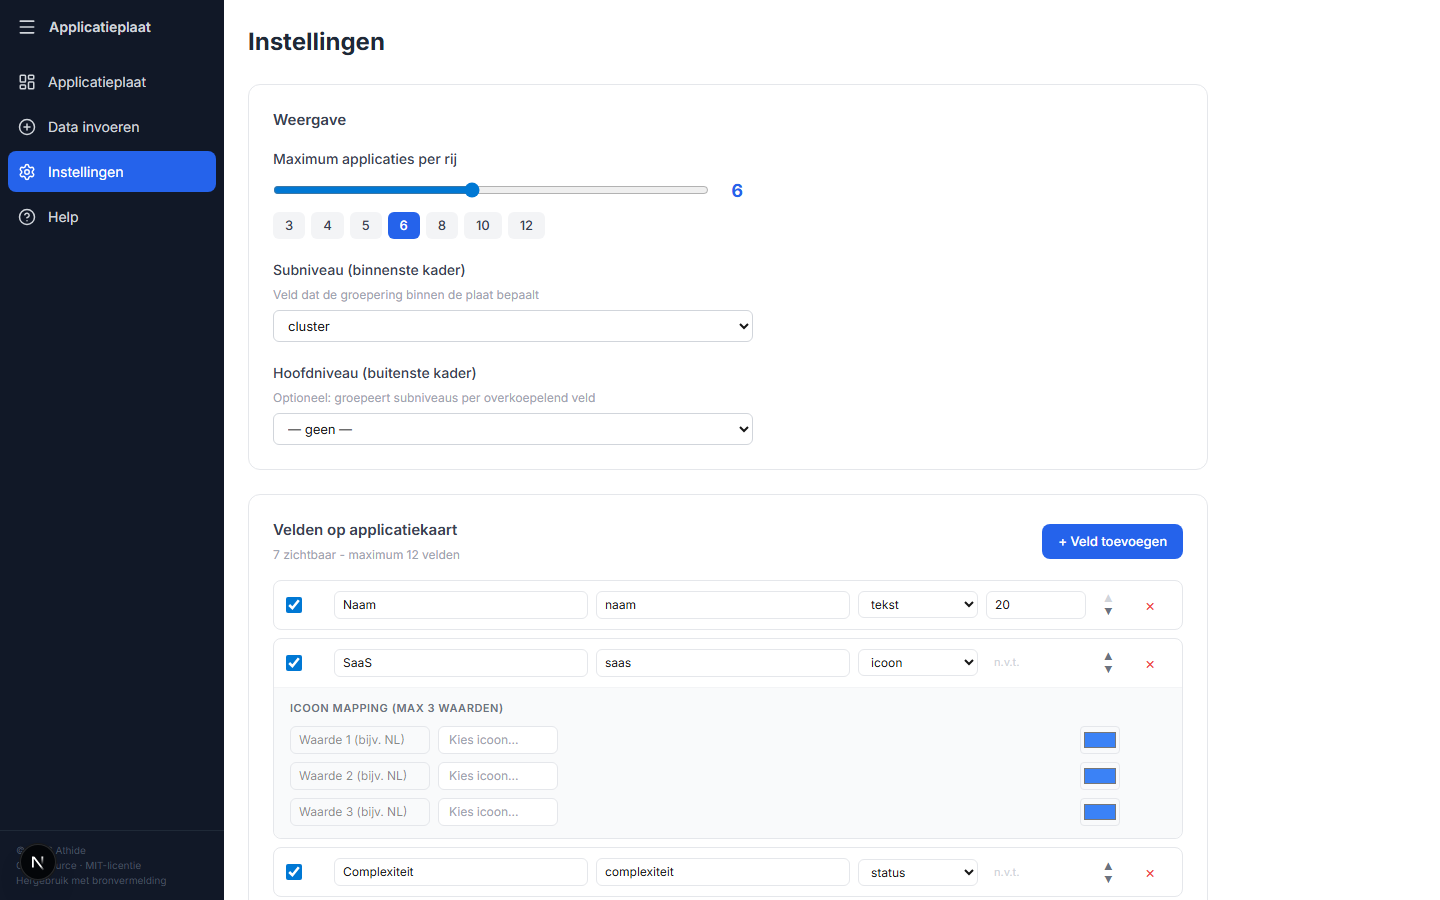
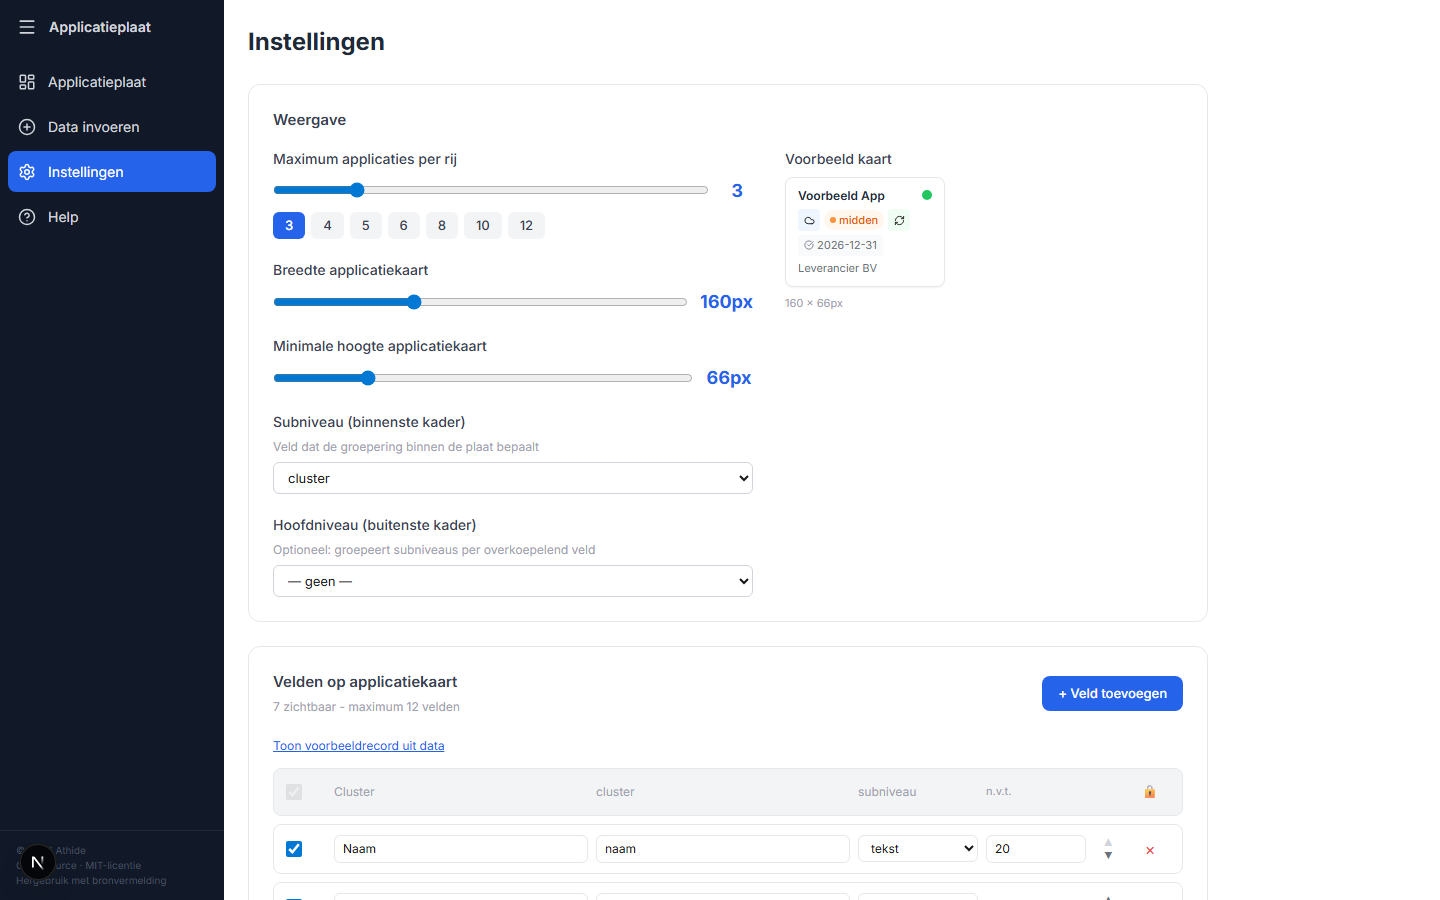
Help pagina bijgewerkt met toolbar documentatie en nieuwe screenshots
- Applicatieplaat sectie: toolbar uitleg (Niveau, Velden, Filter, Opslaan)
- Filter sectie: aangepast aan nieuw filterpaneel zonder niveau-selectors
- Instellingen sectie: kaartbreedte/hoogte toegevoegd, verwijzing naar toolbar voor niveau
- Nieuwe screenshot plaat-toolbar.png met open Niveau dropdown
- Alle screenshots vernieuwd met huidige UI

diff --git a/src/app/help/page.tsx b/src/app/help/page.tsx
@@ -162,18 +162,28 @@ const secties: Sectie[] = [
   {
     id: "applicatieplaat",
     titel: "De applicatieplaat",
-    zoekTekst: "applicatieplaat kaarten clusters overzicht weergave groepen organisatie statuskleur groen oranje rood kaart",
+    zoekTekst: "applicatieplaat kaarten clusters overzicht weergave groepen organisatie statuskleur groen oranje rood kaart toolbar niveau velden",
     inhoud: (
       <div>
         <p>De applicatieplaat toont alle applicaties als kaarten, gegroepeerd in <strong>clusters</strong> (subniveau). Optioneel kun je een <strong>hoofdniveau</strong> instellen voor een extra bovenliggende laag (bijv. per afdeling of domein).</p>
 
         <img src="/help/plaat.png" alt="Applicatieplaat overzicht" style={imgStijl} />
 
+        <p style={{ marginTop: 16 }}><strong>Toolbar</strong><br />Boven de plaat vind je vier knoppen:</p>
+        <ul style={{ paddingLeft: 20, lineHeight: 1.8, marginTop: 4 }}>
+          <li><strong>Niveau</strong> — kies het subniveau (clustergroepering) en optioneel een hoofdniveau (organisatielaag)</li>
+          <li><strong>Velden</strong> — schakel velden aan/uit op de applicatiekaart. Wijzigingen zijn direct zichtbaar</li>
+          <li><strong>Filter</strong> — open het filterpaneel om applicaties te filteren op veldwaarden</li>
+          <li><strong>Opslaan</strong> — exporteer als JSON-sessie, PNG, JPG of SVG</li>
+        </ul>
+
+        <img src="/help/plaat-toolbar.png" alt="Toolbar met Niveau en Velden menu" style={imgStijl} />
+
         <p style={{ marginTop: 16 }}><strong>Applicatiekaart</strong><br />Elke kaart toont:</p>
         <ul style={{ paddingLeft: 20, lineHeight: 1.8, marginTop: 4 }}>
           <li>De naam van de applicatie</li>
           <li>De ingestelde velden (maximaal 12)</li>
-          <li>Een gekleurde rand voor de statuskleur (groen / oranje / rood) indien geconfigureerd</li>
+          <li>Een gekleurde stip voor de statuskleur (groen / oranje / rood) indien geconfigureerd</li>
         </ul>
 
         <p style={{ marginTop: 12 }}><strong>Clusters</strong><br />Clusters zijn de groepen op het subniveau. Elke cluster heeft een eigen kleur (automatisch toegewezen). Het aantal applicaties per rij is instelbaar via Instellingen.</p>
@@ -182,59 +192,64 @@ const secties: Sectie[] = [
   },
   {
     id: "filterbalk",
-    titel: "Filterbalk",
+    titel: "Filter",
     zoekTekst: "filter filterbalk zoeken selectie checkboxes alles geen reset datum verlopen binnenkort actief badge tellen",
     inhoud: (
       <div>
-        <p>Open de filterbalk via de <strong>filterknop</strong> linksboven op de applicatieplaat. Het getal op de knop toont hoeveel filters actief zijn.</p>
+        <p>Open het filterpaneel via de <strong>Filter</strong>-knop in de toolbar. Het getal op de knop toont hoeveel filters actief zijn.</p>
 
-        <img src="/help/plaat-filter.png" alt="Applicatieplaat met open filterbalk" style={imgStijl} />
+        <img src="/help/plaat-filter.png" alt="Applicatieplaat met open filterpaneel" style={imgStijl} />
 
         <p style={{ marginTop: 16 }}><strong>Hoe werkt filteren?</strong></p>
         <ul style={{ paddingLeft: 20, lineHeight: 1.8, marginTop: 4 }}>
+          <li>Het filterpaneel toont alle velden met 2 of meer unieke waarden</li>
           <li>Gebruik de checkboxes om waarden aan of uit te zetten</li>
           <li>Klik <strong>Geen</strong> om alle opties voor een sectie te deselecteren, <strong>Alles</strong> om ze terug te zetten</li>
           <li>Meerdere filters combineren is mogelijk — alleen applicaties die aan alle filters voldoen worden getoond</li>
           <li>Klik op de sectietitel om een filtersectie in of uit te klappen</li>
         </ul>
 
-        <p style={{ marginTop: 12 }}><strong>Datumvelden</strong><br />Datumkolommen hebben drie speciale filteropties:</p>
+        <p style={{ marginTop: 12 }}><strong>Datumvelden</strong><br />Datumkolommen worden automatisch omgezet naar drie filteropties:</p>
         <ul style={{ paddingLeft: 20, lineHeight: 1.8, marginTop: 4 }}>
           <li><strong>Verlopen</strong> — aflooptermijn is verstreken</li>
           <li><strong>Binnenkort</strong> — verloopt binnen 90 dagen</li>
           <li><strong>Actief</strong> — geldig voor meer dan 90 dagen</li>
         </ul>
 
-        <p style={{ marginTop: 12 }}>Klik <strong>Reset</strong> bovenaan de filterbalk om alle filters in één keer te wissen.</p>
+        <p style={{ marginTop: 12 }}>Klik <strong>Reset</strong> bovenaan het filterpaneel om alle filters in één keer te wissen.</p>
       </div>
     ),
   },
   {
     id: "instellingen",
     titel: "Instellingen",
-    zoekTekst: "instellingen velden configureren toevoegen verwijderen volgorde type tekst datum icoon status mappings icoonmapping hierarchie subniveau hoofdniveau max apps rij opslaan",
+    zoekTekst: "instellingen velden configureren toevoegen verwijderen volgorde type tekst datum icoon status mappings icoonmapping max apps rij kaartbreedte kaarthoogte opslaan",
     inhoud: (
       <div>
-        <p>Via <strong>Instellingen</strong> pas je de weergave en velden aan.</p>
+        <p>Via <strong>Instellingen</strong> pas je de weergave en velddefinities aan.</p>
 
         <img src="/help/instellingen.png" alt="Instellingenpagina" style={imgStijl} />
 
         <p style={{ marginTop: 16 }}><strong>Weergave</strong></p>
         <ul style={{ paddingLeft: 20, lineHeight: 1.8, marginTop: 4 }}>
           <li><strong>Applicaties per rij</strong> — hoeveel kaarten naast elkaar per cluster (standaard: 6)</li>
-          <li><strong>Subniveaukolom</strong> — welke kolom de clustergroepering bepaalt</li>
-          <li><strong>Hoofdniveaukolom</strong> — welke kolom de bovenliggende groepering bepaalt (leeg = geen hoofdniveau)</li>
+          <li><strong>Kaartbreedte / Kaarthoogte</strong> — afmetingen van de applicatiekaart in pixels</li>
         </ul>
 
-        <p style={{ marginTop: 12 }}><strong>Velden op de applicatiekaart</strong></p>
+        <div style={{ marginTop: 12, padding: "10px 14px", backgroundColor: "#eff6ff", borderRadius: 8, borderLeft: "3px solid #3b82f6", fontSize: 13 }}>
+          <strong>Let op:</strong> Subniveau en hoofdniveau stel je in via de <strong>Niveau</strong>-knop in de toolbar op de applicatieplaat, niet in Instellingen.
+        </div>
+
+        <p style={{ marginTop: 16 }}><strong>Velden op de applicatiekaart</strong></p>
         <ul style={{ paddingLeft: 20, lineHeight: 1.8, marginTop: 4 }}>
-          <li>Maximaal 12 velden tegelijk zichtbaar</li>
+          <li>Maximaal 12 velden tegelijk</li>
+          <li>Gebruik de checkbox om een veld zichtbaar te maken (ook snel aan te passen via <strong>Velden</strong> in de toolbar)</li>
           <li>Gebruik de pijlknoppen om de volgorde te wijzigen</li>
-          <li>Zet het oogje aan/uit om een veld te tonen of te verbergen</li>
           <li>Stel per veld het <strong>type</strong> in: tekst, datum, icoon of status</li>
+          <li>Bij type <em>tekst</em> kun je de maximale lengte instellen (tekst wordt afgekapt)</li>
         </ul>
 
-        <p style={{ marginTop: 12 }}><strong>Icoon-mappings</strong><br />Voor velden van het type <em>icoon</em> kun je waarden koppelen aan een icoon en kleur. Zo verschijnt er een visueel symbool op de kaart in plaats van platte tekst.</p>
+        <p style={{ marginTop: 12 }}><strong>Icoon-mappings</strong><br />Voor velden van het type <em>icoon</em> kun je tot 3 waarden koppelen aan een icoon en kleur. Zo verschijnt er een visueel symbool op de kaart in plaats van platte tekst.</p>
 
         <p style={{ marginTop: 12 }}>Klik <strong>Opslaan</strong> om je wijzigingen door te voeren. Met <strong>Annuleren</strong> herstel je de vorige staat.</p>
       </div>
